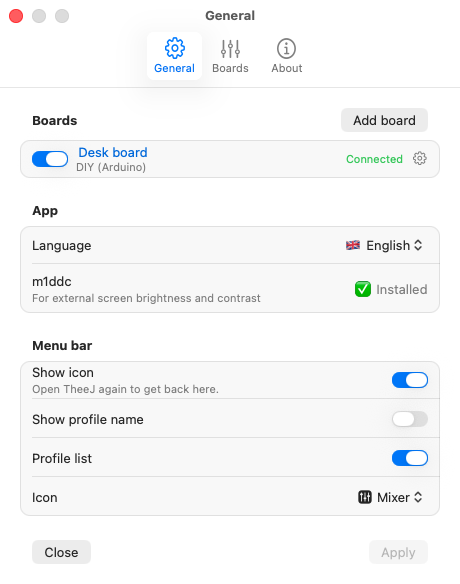
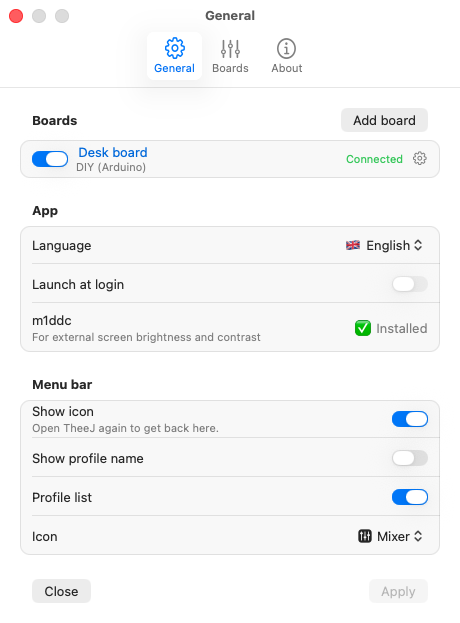
Launch at login also sits in Settings, under Language in App, and Version 2.4.9

diff --git a/Sources/TheeJ/Settings.swift b/Sources/TheeJ/Settings.swift
@@ -1,5 +1,6 @@
 #if canImport(AppKit)
 import AppKit
+import ServiceManagement
 import Carbon.HIToolbox
 import UniformTypeIdentifiers
 
@@ -203,7 +204,9 @@ extension MenuBar: NSToolbarDelegate {
             control.target = self
             control.action = #selector(toggleOption)
         }
-        for toggle in [showIcon, showName, showProfiles] { toggle.controlSize = .mini }
+        for toggle in [showIcon, showName, showProfiles, launchAtLogin] { toggle.controlSize = .mini }
+        launchAtLogin.target = self
+        launchAtLogin.action = #selector(toggleLoginSwitch)
         iconPicker.isBordered = false
         iconPicker.removeAllItems()
         for style in IconStyle.allCases {
@@ -223,7 +226,7 @@ extension MenuBar: NSToolbarDelegate {
         let appRows = NSStackView()
         let appGroup = group(appRows)
         let m1ddc = isAppleSilicon ? [m1ddcRow()] : []  // m1ddc runs on Apple Silicon only
-        setRows(appRows, [row([label(tr("language"))], languagePicker)] + m1ddc)
+        setRows(appRows, [row([label(tr("language"))], languagePicker), row([label(tr("login"))], launchAtLogin)] + m1ddc)
         let menuBarRows = NSStackView()
         let menuBarGroup = group(menuBarRows)
         setRows(menuBarRows, [row([label(tr("show_icon"), note: tr("hide_icon_note"))], showIcon),
@@ -508,6 +511,7 @@ extension MenuBar: NSToolbarDelegate {
         showName.state = draft.showName ? .on : .off
         showProfiles.state = draft.showProfiles ? .on : .off
         showIcon.state = draft.hideIcon ? .off : .on
+        showLogin()
         iconPicker.selectItem(at: IconStyle.allCases.firstIndex(of: draft.icon) ?? 0)
         dimMenuBarOptions()
         reloadBoards()
@@ -613,6 +617,18 @@ extension MenuBar: NSToolbarDelegate {
     func dimApply() {
         let saved = shared.config().setup
         for button in applyButtons { button.isEnabled = draft != saved }
+    }
+
+    // Launch at login is the system's login item, not a setting, so it changes at once, as in the menu, and
+    // only the copy in Applications can register it.
+    func showLogin() {
+        launchAtLogin.state = SMAppService.mainApp.status == .enabled ? .on : .off
+        launchAtLogin.isEnabled = Bundle.main.bundlePath.hasPrefix("/Applications/")
+    }
+
+    @objc func toggleLoginSwitch() {
+        toggleLogin()
+        showLogin()
     }
 
     @objc func toggleOption() {

diff --git a/Sources/TheeJ/MenuBar.swift b/Sources/TheeJ/MenuBar.swift
@@ -36,6 +36,7 @@ final class MenuBar: NSObject, NSApplicationDelegate, NSMenuDelegate, NSWindowDe
     let boardRows = NSStackView()
     let showName = NSSwitch()
     let showIcon = NSSwitch()  // on while the icon shows: setup.hideIcon the other way round
+    let launchAtLogin = NSSwitch()
     let showNameLabel = NSTextField(labelWithString: "")  // these three are dimmed with the icon hidden
     let showProfiles = NSSwitch()
     let profileListLabel = NSTextField(labelWithString: "")

diff --git a/Sources/TheeJ/Version.swift b/Sources/TheeJ/Version.swift
@@ -1,3 +1,3 @@
 // build.sh and release.sh read appVersion from this line.
 let appName = "TheeJ"
-let appVersion = "2.4.8"
+let appVersion = "2.4.9"

diff --git a/README.md b/README.md
@@ -274,8 +274,8 @@ DIY board or another MIDI controller, its baud rate and how many knobs, faders a
 Next then calibrates it. The gear holds the board's name, its status with Reconnect, the device and,
 for a DIY board, its baud rate and **Speed**, for an SMC-Mixer its **Button lights**, then the board's
 **Next profile** and **Previous profile** shortcuts, with Remove board and Calibrate. Its Save applies at once. Under the boards,
-**App** holds **Language** and, on Apple silicon, whether m1ddc is installed, with a button that
-installs it. **Menu bar** holds **Show icon**, **Show profile name**, **Profile list**, which puts the
+**App** holds **Language**, **Launch at login** (the same login item as the menu's, for the copy in
+Applications) and, on Apple silicon, whether m1ddc is installed, with a button that installs it. **Menu bar** holds **Show icon**, **Show profile name**, **Profile list**, which puts the
 profiles in the menu, and **Icon** (Mixer, Dial or App icon).
 
 **Boards** shows one connected board at a time. Its toolbar picks the board and the profile you are
